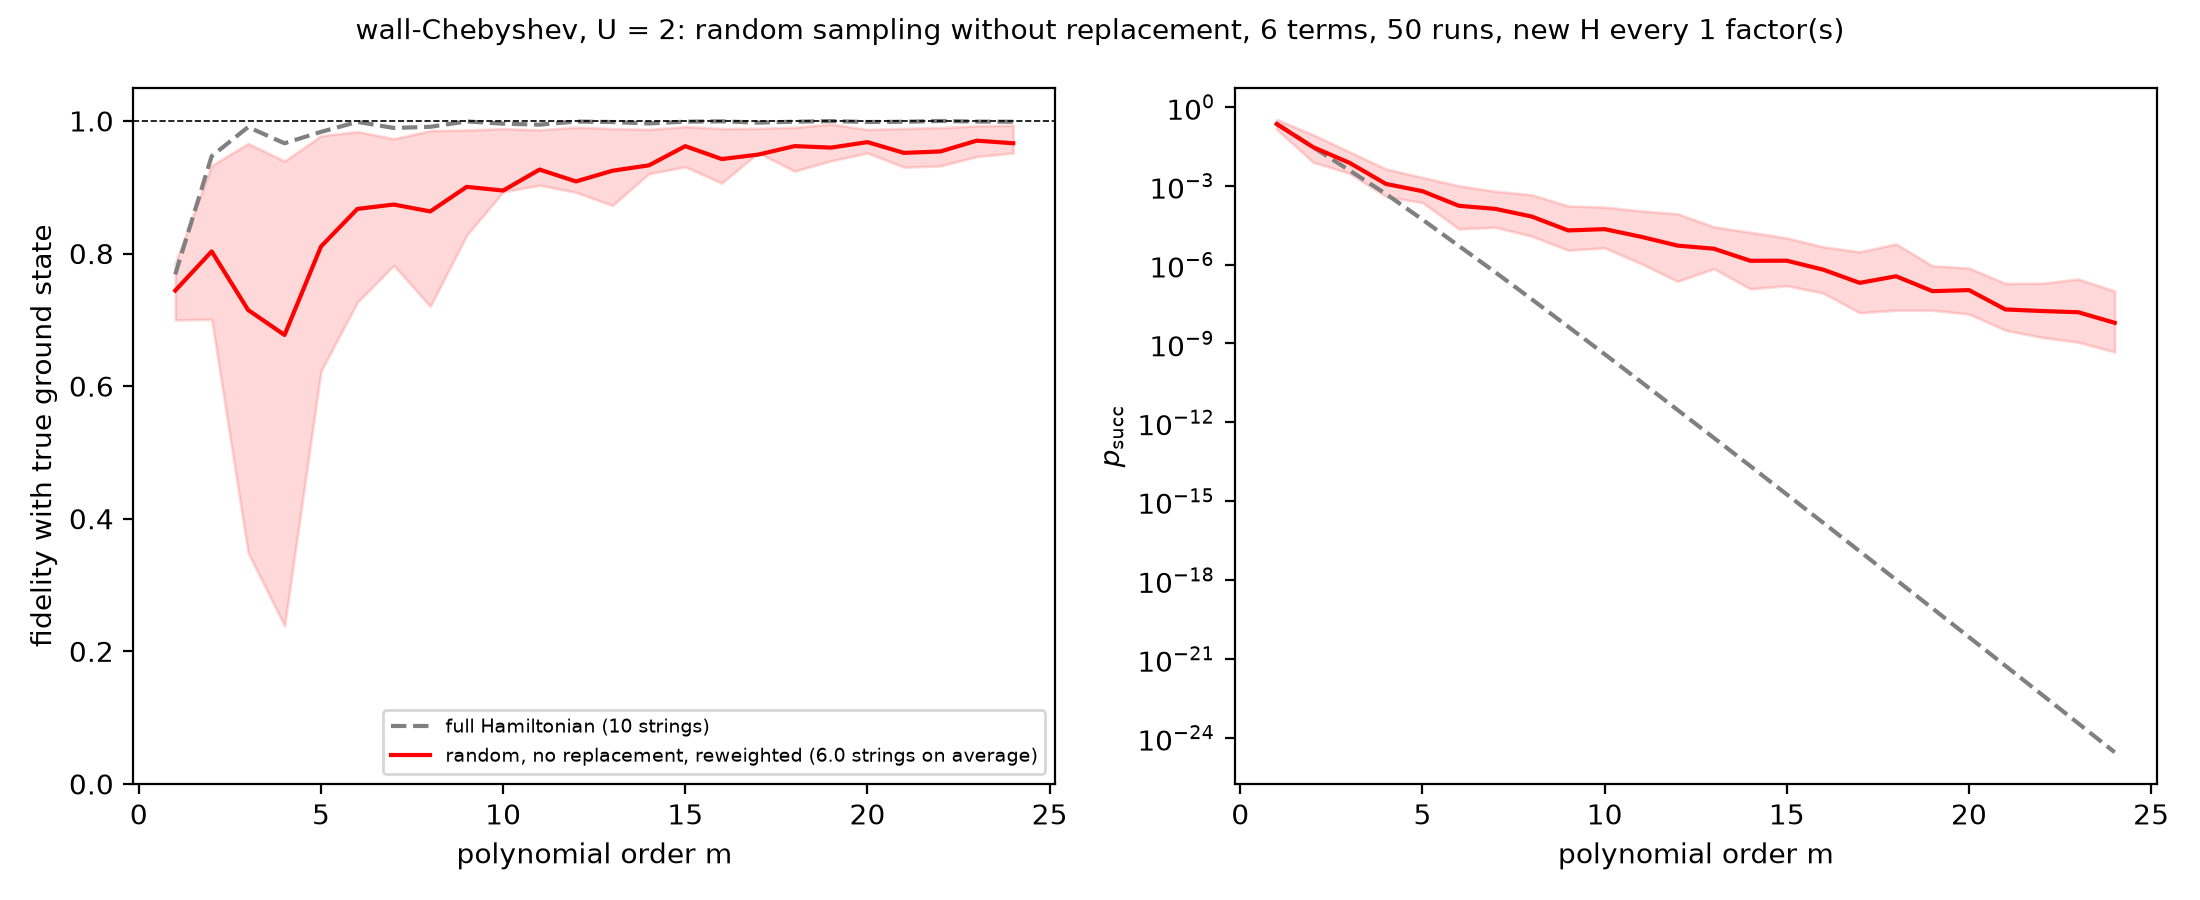
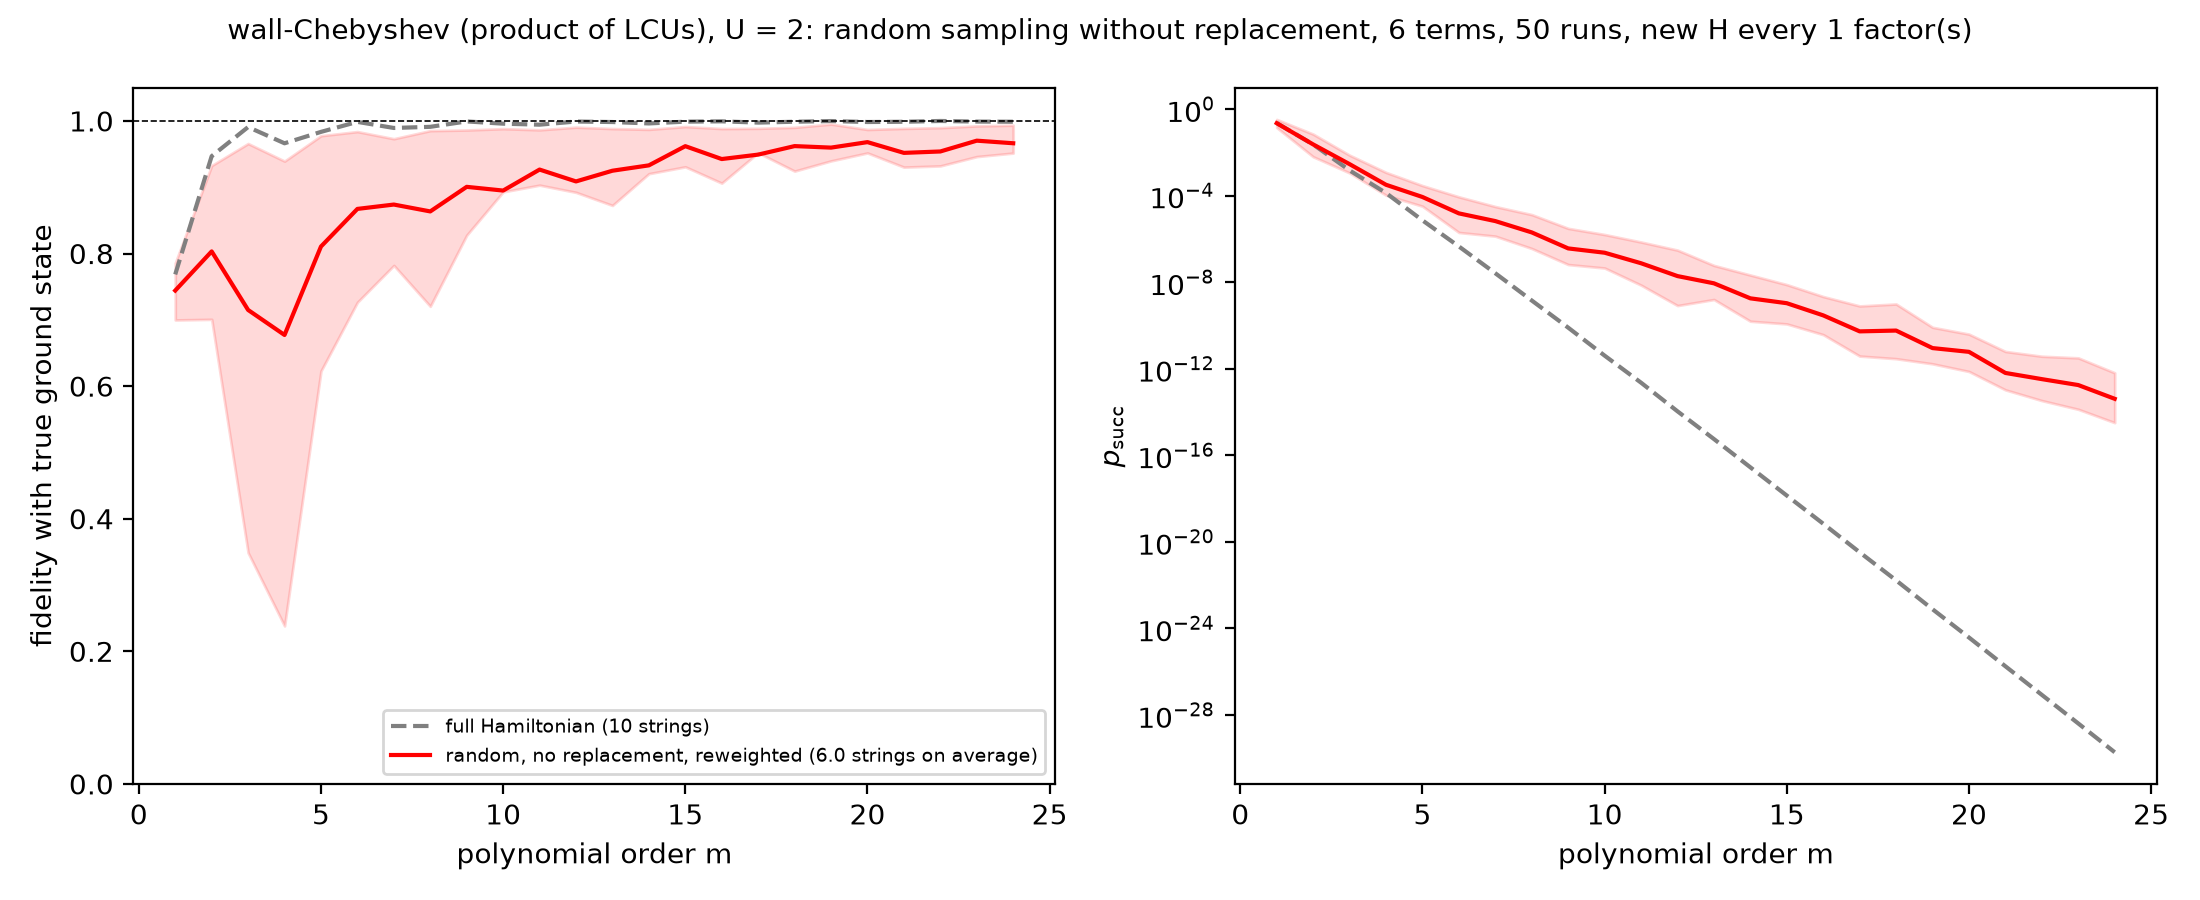
using product form of success probability

diff --git a/SuccessProbability.py b/SuccessProbability.py
@@ -3,9 +3,12 @@ Success Probability
 
 Calculates the projection outcomes on the state as well as the alpha value from LCU block encoding
 Calculates the success probabilitly of each projector
-'''
 
-from dataclasses import dataclass
+wall-Chebyshev encodings (section 4 of the paper):
+    Product: product of LCUs, eqs. 34-36
+    P1: GQSVT direct encoding, eqs. 39-40
+    P2: GQSVT with rescaled nodes, eqs. 41-42
+'''
 
 import numpy as np
 from numpy.polynomial import chebyshev as Cheb
@@ -17,6 +20,8 @@ from Projectors import (
     step,
     )
 from ApplyingProjector import estimate_energy_and_range
+from FermiHubbard import fermihubbard_subspace
+from HartreeFock import hartree_fock_state
 
 '''
 Calculating alpha value
@@ -41,7 +46,6 @@ def projection_outcome(E, c, w):
 def lcu_alpha(qubit_H, scale=1.0, shift=0.0):
     '''
     returns alpha, the sub normalisation of the LCU block encoding
-
     '''
     h_id = rest = 0
     for label, coef in qubit_H.simplify().to_list():
@@ -52,22 +56,60 @@ def lcu_alpha(qubit_H, scale=1.0, shift=0.0):
     return abs(scale) * rest + abs(scale * h_id + shift)
 
 '''
-Calculating the success probabilities of the projectors
-1. wall-chebyshev
-2. delta function
-3. step function
+1. Wall-chebyshev success probability
+i. product form
+ii. P1
+iii. P2
 '''
 
-# wall-chebyshev GQSVT encoding (eqs. 39-40)
-def p_succ_wallcheb(E, c, S, R, alpha, m):
+def wallcheb_nodes_scaled(m):
+    '''
+    nodes of the order m wall-Chebyshev polynomial in the rescaled variable x (eigenvalues of H~)
+    a~_v = -cos(v pi / (m + 1/2)), v = 1..m  (eq. 16 mapped through eq. 14)
+    '''
+    return -np.cos(np.arange(1, m + 1) * np.pi / (m + 0.5))
+
+# i. wall-Chebyshev product of LCUs (eqs. 34-36)
+def product_alphas(qubit_H, S, R, m):
+    '''
+    alpha_v of every factor in the product form
+    factor v is H~ - a~_v = (2/R) H - (2S/R + 1 + a~_v) I, block encoded on its own with LCU,
+    so alpha_v is the LCU 1-norm of that operator (identity coefficient includes the shift a~_v)
+    '''
+    return np.array([lcu_alpha(qubit_H, 2/R, -(2*S/R + 1 + a)) for a in wallcheb_nodes_scaled(m)])
+
+def wallcheb_product(x, alphas):
+    '''
+    PRODUCT form weight on an eigenvalue x of H~: prod_v (x - a~_v) / alpha_v
+    alphas: the m values alpha_v from product_alphas
+    '''
+    nodes = wallcheb_nodes_scaled(len(alphas))
+    return np.prod((np.asarray(x, dtype=float)[..., None] - nodes) / np.asarray(alphas), axis=-1)
+
+def p_succ_wallcheb_product(E, c, S, R, alphas):
+    '''PRODUCT form success probability, eq. 35'''
+    x = 2 * (np.asarray(E) - S) / R - 1
+    return projection_outcome(E, c, wallcheb_product(x, alphas))
+
+def p_succ_wallcheb_product_approx(alpha, m):
+    '''
+    Eq. 36 shortcut p / c0^2 = prod_v (E0 - a_v)^2 / alpha_v^2. Only for S = E0 and large m.
+    Uses the upper bound alpha_v = alpha + |a~_v| (as in the Product panel of Figure 3), alpha is the alpha of H~.
+    '''
+    nodes = wallcheb_nodes_scaled(m)
+    alpha = np.asarray(alpha, dtype=float)[..., None]
+    return np.prod((-1 - nodes) ** 2 / (alpha + np.abs(nodes)) ** 2, axis=-1)
+
+# ii. wall-Chebyshev P1, GQSVT direct encoding (eqs. 39-40)
+def p_succ_wallcheb_P1(E, c, S, R, alpha, m):
     x = 2 * (np.asarray(E) - S) / R - 1 # eigenvalues of H_tilda
     return projection_outcome(E, c, Cheb.chebval(x / alpha, wall_cheb_coefs(m)))
 
-def p_succ_wallcheb_approx(alpha, m):
-    # Can only use for S=E0
+def p_succ_wallcheb_P1_approx(alpha, m):
+    # P1 approx, eq. 40. Can only use for S=E0
     return Cheb.chebval(-1.0 / np.asarray(alpha, dtype=float), wall_cheb_coefs(m)) ** 2
 
-# wall-Chebyshev with rescaled nodes P2 (eqs. 41-42)
+# iii. wall-Chebyshev P2, GQSVT with rescaled nodes (eqs. 41-42)
 def wallcheb_P2(y, alpha, m):
     '''
     P2(y) = prod_v (y - a_v / alpha),  y = H~/alpha,  nodes a_v = -cos(v pi / (m + 1/2)).
@@ -84,16 +126,22 @@ def p_succ_wallcheb_P2(E, c, S, R, alpha, m):
  
  
 def p_succ_wallcheb_P2_approx(alpha, m):
-    '''Eq. 42 shortcut p / c0^2 = P2(-1/alpha)^2. Only for S = E0.'''
+    # P2 approx, eq. 40. Can only use for S=E0
     return float(wallcheb_P2(-1.0 / alpha, alpha, m)) ** 2
 
 
-# eigenstate filter (eqs 9., E16-19)
+'''
+2. Delta function 
+(eqs 9., E16-19)
+'''
 def p_succ_delta(E, c, S, alpha_delta, l, gap):
     x = (np.asarray(E) - S) / alpha_delta
     return projection_outcome(E, c, delta_func(x, l, gap / alpha_delta))
 
-# step function (eqs. E20-25)
+'''
+3. Step function 
+(eqs. E20-25)
+'''
 def p_succ_step(E, c, S, alpha_step, gap, deg=500, epsilon=1e-2):
     g = gap / alpha_step
     coefs, _ = step_func(deg=deg, delta=g / 4, mu=g/2, epsilon=epsilon)
@@ -109,17 +157,19 @@ def success_results(subspace, psi0, ground_state_energy, m=10):
     norm = np.max(np.abs(2*(np.linalg.eigvalsh(subspace.H_full)-S)/R-1))
     assert alpha_wall >= norm - 1e-9, f"alpha = {alpha_wall:.3f} < ||H-|| = {norm:.3f}: not a valid block encoding"
 
+    alphas = product_alphas(subspace.qubit_H, S, R, m)
+
     return dict(
         S=S, R=R, c0_sq=c[0] ** 2, alpha_H=lcu_alpha(subspace.qubit_H), alpha_wall=alpha_wall, norm_wall = norm,
-        wall=p_succ_wallcheb(subspace.E, c, S, R, lcu_alpha(subspace.qubit_H, 2/R, -(2*S/R+1)), m),
+        alpha_product=alphas,
+        wall_product=p_succ_wallcheb_product(subspace.E, c, S, R, alphas),   
+        wall_P1=p_succ_wallcheb_P1(subspace.E, c, S, R, alpha_wall, m),          
+        wall_P2=p_succ_wallcheb_P2(subspace.E, c, S, R, alpha_wall, m),
         filter=p_succ_delta(subspace.E, c, S, lcu_alpha(subspace.qubit_H, shift=-S), m // 2, subspace.gap),
         step=p_succ_step(subspace.E, c, S, lcu_alpha(subspace.qubit_H, shift=-S), subspace.gap),
     )
 
 if __name__ == "__main__":
-    from FermiHubbard import fermihubbard_subspace
-    from HartreeFock import hartree_fock_state
-
     m=10
     print(f"Success probability of the projectors, all with m={m}")
     for U in (1, 2, 4, 8):
@@ -127,8 +177,9 @@ if __name__ == "__main__":
         psi0, _ = hartree_fock_state(subspace)
         for exact in (True, False):
             r = success_results(subspace, psi0, exact, m)
-            shortcut = f"{r['c0_sq'] * p_succ_wallcheb_approx(r['alpha_wall'], m):.2e}" if exact else "n/a"
-            print(f"U={U} S={'E0' if exact else 'HF'}:"
-                  f"Wall-chebyshev(QSVT1):{r['wall']['p']:.2e} [wallcheb success approx: {shortcut}]  "
+            shortcut = f"{r['c0_sq'] * p_succ_wallcheb_product_approx(r['alpha_wall'], m):.2e}" if exact else "n/a"
+            print(f"U={U} S={'E0' if exact else 'HF'}: "
+                  f"wall-Chebyshev product:{r['wall_product']['p']:.2e} [eq. 36 shortcut, alpha_v upper bound: {shortcut}]  "
+                  f"(comparison: P1 {r['wall_P1']['p']:.2e}, P2 {r['wall_P2']['p']:.2e})  "
                   f"eigenstate filter:{r['filter']['p']:.3f}  step function:{r['step']['p']:.3f}")
 

diff --git a/Errorbands.py b/Errorbands.py
@@ -3,38 +3,38 @@ import matplotlib.pyplot as plt
  
 from FermiHubbard import fermihubbard_subspace
 from DeterministicSampling import pauli_terms, evaluate
-from Randomsampling import rand_pauli_sampler_without_replacement
+from PauliSampling import rand_pauli_sampler_without_replacement
 from NewSequenceofCode import average_over_runs_new
  
 U = 2
-N_TERMS = 6
-N_RUNS = 50
-PER_SAMPLE = 1                       
-SHOW_BANDS = True
-BAND = (16, 84)                                 
-EXACT_S = True
-M_VALUES = np.arange(1, 25)
+n_terms = 6
+n_runs = 50
+per_sample = 1                       
+show_bands = True
+band_width = (16, 84)                                 
+exact_s = True
+m_vals = np.arange(1, 25)
  
 subspace = fermihubbard_subspace(U)
 op = subspace.qubit_H
-sample_H = rand_pauli_sampler_without_replacement(op, N_TERMS, reweight=True, seed=0)
+sample_H = rand_pauli_sampler_without_replacement(op, n_terms, reweight=True, seed=0)
  
  
 def scan(h):
     '''fidelity and p of the full Hamiltonian at every order m'''
-    res = [evaluate(h, subspace, EXACT_S, m=int(m), deg=50)["wall_cheb"] for m in M_VALUES]
+    res = [evaluate(h, subspace, exact_s, m=int(m), deg=50)["wall_cheb_product"] for m in m_vals]
     return np.array([r["fidelity"] for r in res]), np.array([r["p"] for r in res])
  
  
 def scan_chain(sampler):
     '''
-    for each order m: N_RUNS independent runs, each applying m factors with a fresh sampled H every PER_SAMPLE factors
-    returns arrays of shape (N_RUNS, len(M_VALUES))
+    for each order m: n_runs independent runs, each applying m factors with a fresh sampled H every per_sample factors
+    returns arrays of shape (n_runs, len(m_vals))
     '''
     F, P = [], []
-    for m in M_VALUES:
+    for m in m_vals:
         m = int(m)
-        out = average_over_runs_new(sampler, subspace, EXACT_S, m, factors_per_sample=min(PER_SAMPLE, m), n_runs=N_RUNS)
+        out = average_over_runs_new(sampler, subspace, exact_s, m, factors_per_sample=min(per_sample, m), n_runs=n_runs)
         F.append(out["F_runs"]); P.append(out["p_runs"])
     return np.array(F).T, np.array(P).T
  
@@ -46,25 +46,25 @@ logp = np.log10(P)
  
 fig, (ax_F, ax_p) = plt.subplots(1, 2, figsize=(11, 4.5))
  
-ax_F.plot(M_VALUES, F_full, "--", color="gray", label="full Hamiltonian (10 strings)")
-ax_F.plot(M_VALUES, F.mean(0), color="red", label=f"random, no replacement, reweighted ({n_distinct:.1f} strings on average)")
+ax_F.plot(m_vals, F_full, "--", color="gray", label="full Hamiltonian (10 strings)")
+ax_F.plot(m_vals, F.mean(0), color="red", label=f"random, no replacement, reweighted ({n_distinct:.1f} strings on average)")
 ax_F.axhline(1, color="k", ls="--", lw=0.6)
 ax_F.set_ylim(0, 1.05)
 ax_F.set_xlabel("polynomial order m")
 ax_F.set_ylabel("fidelity with true ground state")
 ax_F.legend(fontsize=7, loc="lower right")
  
-ax_p.plot(M_VALUES, p_full, "--", color="gray")
-ax_p.plot(M_VALUES, 10 ** logp.mean(0), color="red")
+ax_p.plot(m_vals, p_full, "--", color="gray")
+ax_p.plot(m_vals, 10 ** logp.mean(0), color="red")
 ax_p.set_yscale("log")
 ax_p.set_xlabel("polynomial order m")
 ax_p.set_ylabel(r"$p_{\rm succ}$")
  
-if SHOW_BANDS:
-    ax_F.fill_between(M_VALUES, *np.percentile(F, BAND, axis=0), color="red", alpha=0.15)
-    ax_p.fill_between(M_VALUES, *10 ** np.percentile(logp, BAND, axis=0), color="red", alpha=0.15)
+if show_bands:
+    ax_F.fill_between(m_vals, *np.percentile(F, band_width, axis=0), color="red", alpha=0.15)
+    ax_p.fill_between(m_vals, *10 ** np.percentile(logp, band_width, axis=0), color="red", alpha=0.15)
  
-fig.suptitle(f"wall-Chebyshev, U = {U}: random sampling without replacement, {N_TERMS} terms, {N_RUNS} runs, new H every {PER_SAMPLE} factor(s)", fontsize=10)
+fig.suptitle(f"wall-Chebyshev (product of LCUs), U = {U}: random sampling without replacement, {n_terms} terms, {n_runs} runs, new H every {per_sample} factor(s)", fontsize=10)
 fig.tight_layout()
 fig.savefig("errorandsshown.png", dpi=200)
 plt.show()

diff --git a/DeterministicSampling.py b/DeterministicSampling.py
@@ -19,7 +19,7 @@ from Projectors import (
     step_func,
     step
     )
-from SuccessProbability import lcu_alpha, wallcheb_P2
+from SuccessProbability import lcu_alpha, wallcheb_P2, product_alphas, wallcheb_product
 from FermiHubbard import fermihubbard_subspace
 
 '''
@@ -98,6 +98,11 @@ def evaluate(sampled_op, subspace, ground_state_energy, m=10, deg=1000, epsilon=
     - alpha is the LCU 1-norm of the sampled operator
     - energy and fidelity are measured against the full hamiltonian and ground state
     - now using the full 16x16 space
+
+    wall-Chebyshev results:
+        "wall_cheb_product": product of LCUs, eq. 35, each factor has its own alpha_v
+        "wall_cheb_P2": GQSVT with rescaled nodes, eq. 42
+        "wall_cheb_P1": GQSVT direct encoding, eq. 40
     '''
     # Full problem embedded in the 16x16 space
     H_full = subspace.qubit_H.to_matrix(sparse=True).toarray()
@@ -111,20 +116,24 @@ def evaluate(sampled_op, subspace, ground_state_energy, m=10, deg=1000, epsilon=
     c = V.conj().T @ psi
 
     # alpha of each projector using sampled H
-    alpha_wall = lcu_alpha(sampled_op, 2/R, -(2*S/R+1))
+    alpha_wall = lcu_alpha(sampled_op, 2/R, -(2*S/R+1)) # alpha of H_tilde (P1 and P2)
+    alpha_product = product_alphas(sampled_op, S, R, m) # alpha_v of each factor H_tilde - a_v (product form)
     alpha_stepdelta = lcu_alpha(sampled_op, shift=-S)
     g = subspace.gap / alpha_stepdelta
     coefs, _ = step_func(deg, delta=g / 4, mu=g / 2, epsilon=epsilon)
     coefs /= max(1.0, np.max(np.abs(step(np.linspace(-1, 1, 4000), coefs))))
 
+    x = 2 * (E - S) / R - 1 # eigenvalues of H~
     weights = {
-        "wall_cheb": wallcheb_P2((2 * (E - S) / R - 1) / alpha_wall, alpha_wall, m),
-        #"wall_cheb": Cheb.chebval((2 * (E - S) / R - 1) / alpha_wall, wall_cheb_coefs(m)),
+        "wall_cheb_product": wallcheb_product(x, alpha_product),                     
+        "wall_cheb_P2": wallcheb_P2(x / alpha_wall, alpha_wall, m),                   
+        "wall_cheb_P1": Cheb.chebval(x / alpha_wall, wall_cheb_coefs(m)),           
         "delta_func": delta_func((E - S) / alpha_stepdelta, m // 2, g),
         "step_func": step((E - S) / alpha_stepdelta, coefs),
     }
 
-    out = dict(alpha_wall=alpha_wall, alpha_stepdelta=alpha_stepdelta, n_pauli=len(sampled_op.simplify().to_list()))
+    out = dict(alpha_wall=alpha_wall, alpha_product=alpha_product, alpha_stepdelta=alpha_stepdelta,
+               n_pauli=len(sampled_op.simplify().to_list()))
     for name, w in weights.items():
         psi_out = V @ (w * c)
         p = np.vdot(psi_out, psi_out).real
@@ -147,6 +156,6 @@ if __name__ == "__main__":
     for name, op in samples:
         r = evaluate(op, subspace, exact)
         print(f"{name:15s} S={'E0' if exact else 'HF'}  n_Pauli={r['n_pauli']:2d} | "
-                        + "  ".join(f"{k}: success_p={r[k]['p']:.2e} Fidelity={r[k]['fidelity']:.3f}" for k in ("wall_cheb", "delta_func", "step_func")))
+                        + "  ".join(f"{k}: success_p={r[k]['p']:.2e} Fidelity={r[k]['fidelity']:.3f}" for k in ("wall_cheb_product", "delta_func", "step_func")))
                     
 
